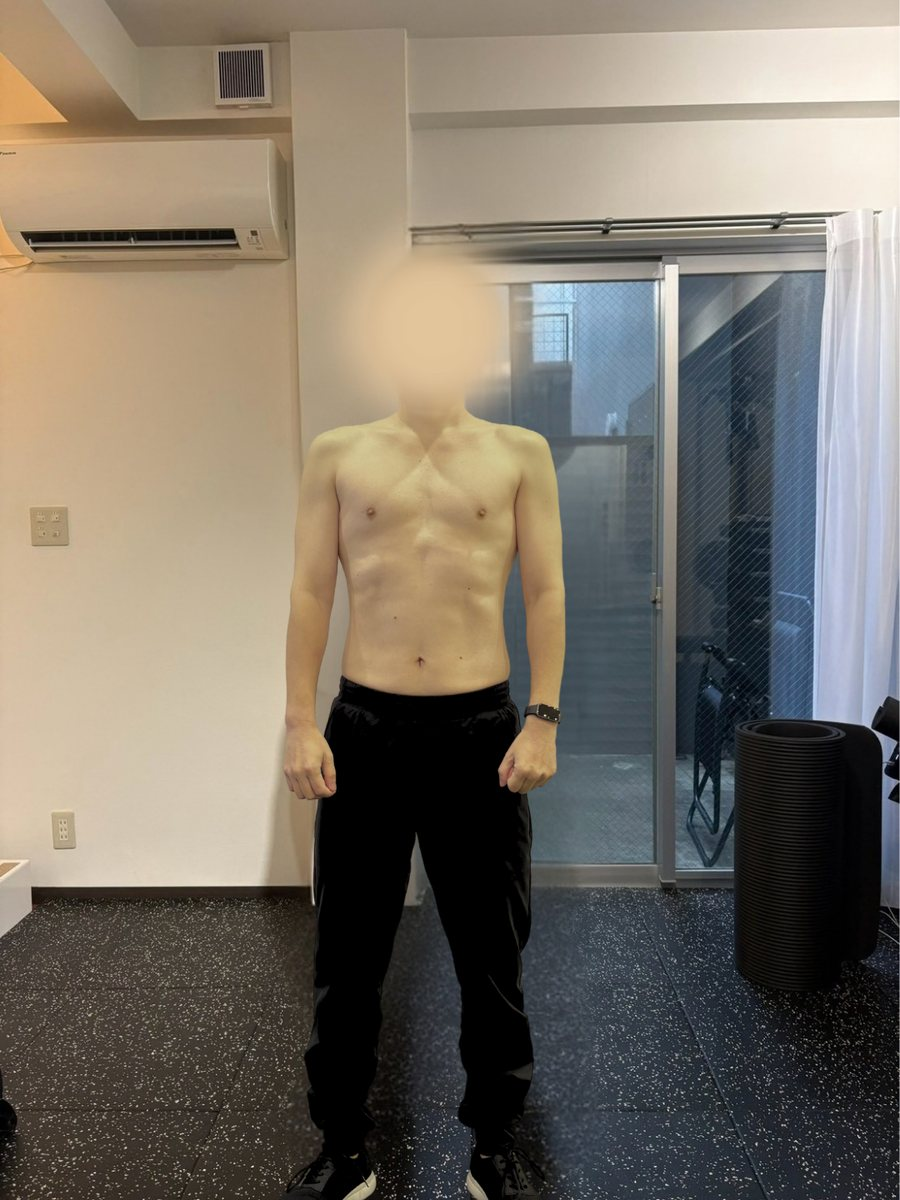
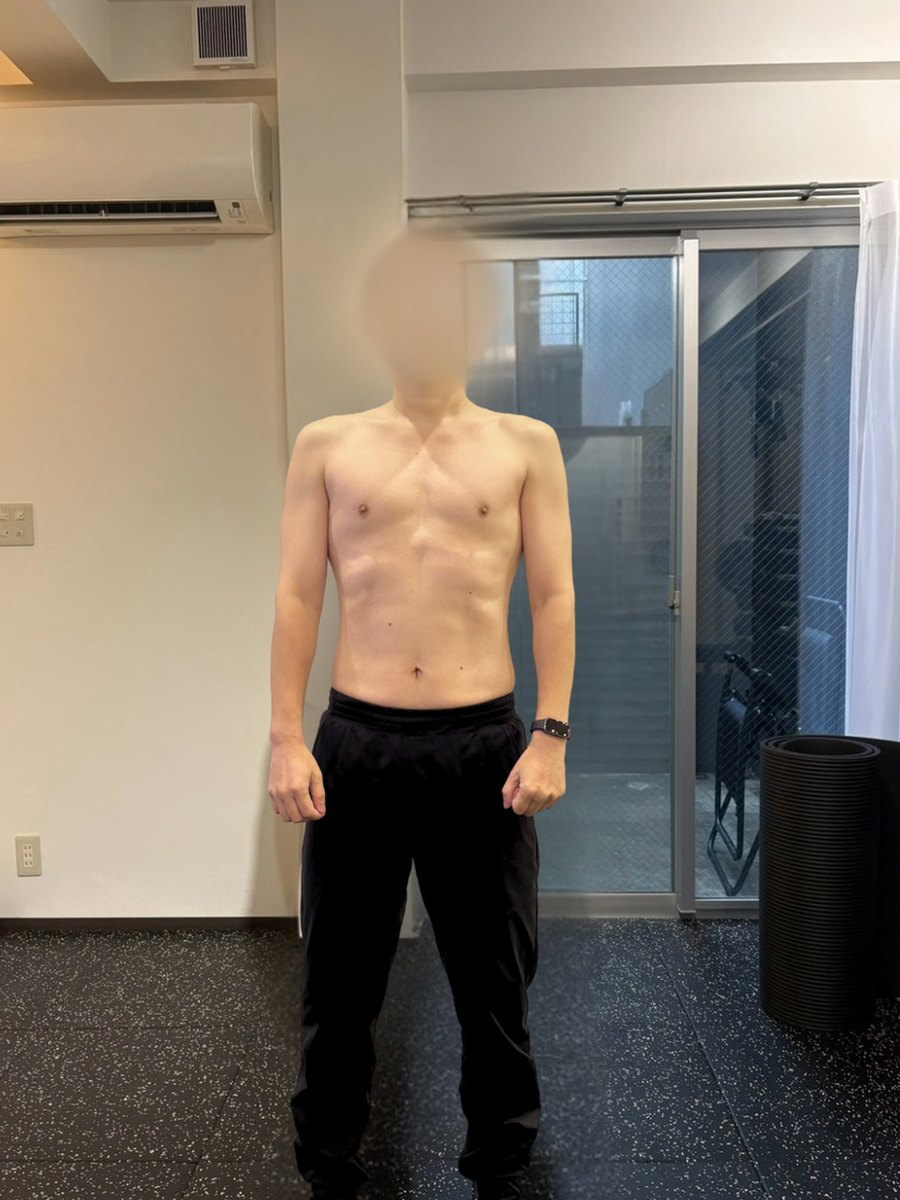
copy: 口コミ順入替・スワイプ案内削除／3人目アフター差し替え

diff --git a/monitor-bulkup.html b/monitor-bulkup.html
@@ -990,8 +990,7 @@ footer a{color:rgba(255,255,255,.7)}
   <h2 class="s-ttl">実際に短期間で<br>ここまで変わっています</h2>
   
 
-  <p class="s-lead">実際に通われた方の記録と、Googleクチコミに寄せられたお声です。<br>
-角度のある方は、<b>横にスワイプ</b>すると切り替わります。</p>
+  <p class="s-lead">実際に通われた方の記録と、Googleクチコミに寄せられたお声です。</p>
   <div class="mix">
     <div class="cg"><div class="cg-kind">変化の記録</div>
       <div class="cg-tabs"><button type="button" class="on" onclick="cgGo(this,0)">正面</button><button type="button" class="" onclick="cgGo(this,1)">横から</button><button type="button" class="" onclick="cgGo(this,2)">背面</button></div>
@@ -1005,11 +1004,11 @@ footer a{color:rgba(255,255,255,.7)}
     </div>
     <div class="vo-c">
       <div class="vo-h">
-        <div class="vo-av">M</div>
+        <div class="vo-av">S</div>
         <div class="vo-m"><div class="vo-st">★★★★★</div><div class="vo-nm">Google クチコミ</div></div>
-        <span class="vo-tag">筋肥大</span>
+        <span class="vo-tag">食事・姿勢</span>
       </div>
-      <p class="vo-t">過去他のパーソナルにも通っていましたが、ガンガン盛り上げる雰囲気や担当がちょくちょく変わるのに違和感が…。その点カミさんはとても落ち着いていて頼れる存在です。<b>1年以上見ていただき、増量も目標通り、記録も伸び続けています。</b>トレーニングが好きになり、習慣づくりができたのが何よりありがたかったです。</p>
+      <p class="vo-t">体験時に丁寧に教えていただき、入会を決めました。<b>トレーニングだけでなく姿勢や食事、呼吸の仕方など細かく教えていただき</b>、まだ始めたばかりですが成長を感じており満足しています。</p>
     </div>
     <div class="cg"><div class="cg-kind">変化の記録</div>
       <div class="cg-tabs"><button type="button" class="on" onclick="cgGo(this,0)">正面</button><button type="button" class="" onclick="cgGo(this,1)">横から</button><button type="button" class="" onclick="cgGo(this,2)">背面</button></div>
@@ -1037,11 +1036,11 @@ footer a{color:rgba(255,255,255,.7)}
     </div>
     <div class="vo-c">
       <div class="vo-h">
-        <div class="vo-av">S</div>
+        <div class="vo-av">M</div>
         <div class="vo-m"><div class="vo-st">★★★★★</div><div class="vo-nm">Google クチコミ</div></div>
-        <span class="vo-tag">食事・姿勢</span>
+        <span class="vo-tag">筋肥大</span>
       </div>
-      <p class="vo-t">体験時に丁寧に教えていただき、入会を決めました。<b>トレーニングだけでなく姿勢や食事、呼吸の仕方など細かく教えていただき</b>、まだ始めたばかりですが成長を感じており満足しています。</p>
+      <p class="vo-t">過去他のパーソナルにも通っていましたが、ガンガン盛り上げる雰囲気や担当がちょくちょく変わるのに違和感が…。その点カミさんはとても落ち着いていて頼れる存在です。<b>1年以上見ていただき、増量も目標通り、記録も伸び続けています。</b>トレーニングが好きになり、習慣づくりができたのが何よりありがたかったです。</p>
     </div>
     <div class="cg"><div class="cg-kind">変化の記録</div>
       <div class="cg-track" onscroll="cgSync(this)">
@@ -1076,7 +1075,7 @@ footer a{color:rgba(255,255,255,.7)}
     <div class="rc">
       <div class="rc-h">
         <div class="rc-n">03</div>
-        <div class="rc-t">積み上げる順序が設計されていない</div>
+        <div class="rc-t">努力が積み上がる設計になっていない</div>
       </div>
       <div class="rc-ph" data-ph="設計をもとに指導する様子"><img src="images/monitor/reason3-plan.jpg" alt="設計をもとに指導するトレーナー" loading="lazy"></div>
       <p class="rc-d">ただ食べて鍛えれば、脂肪が先につきます。<b>どの時期に何を優先し、どこで切り替えるか。</b>この順序が無いまま進めると「太っただけ」で終わります。</p>
